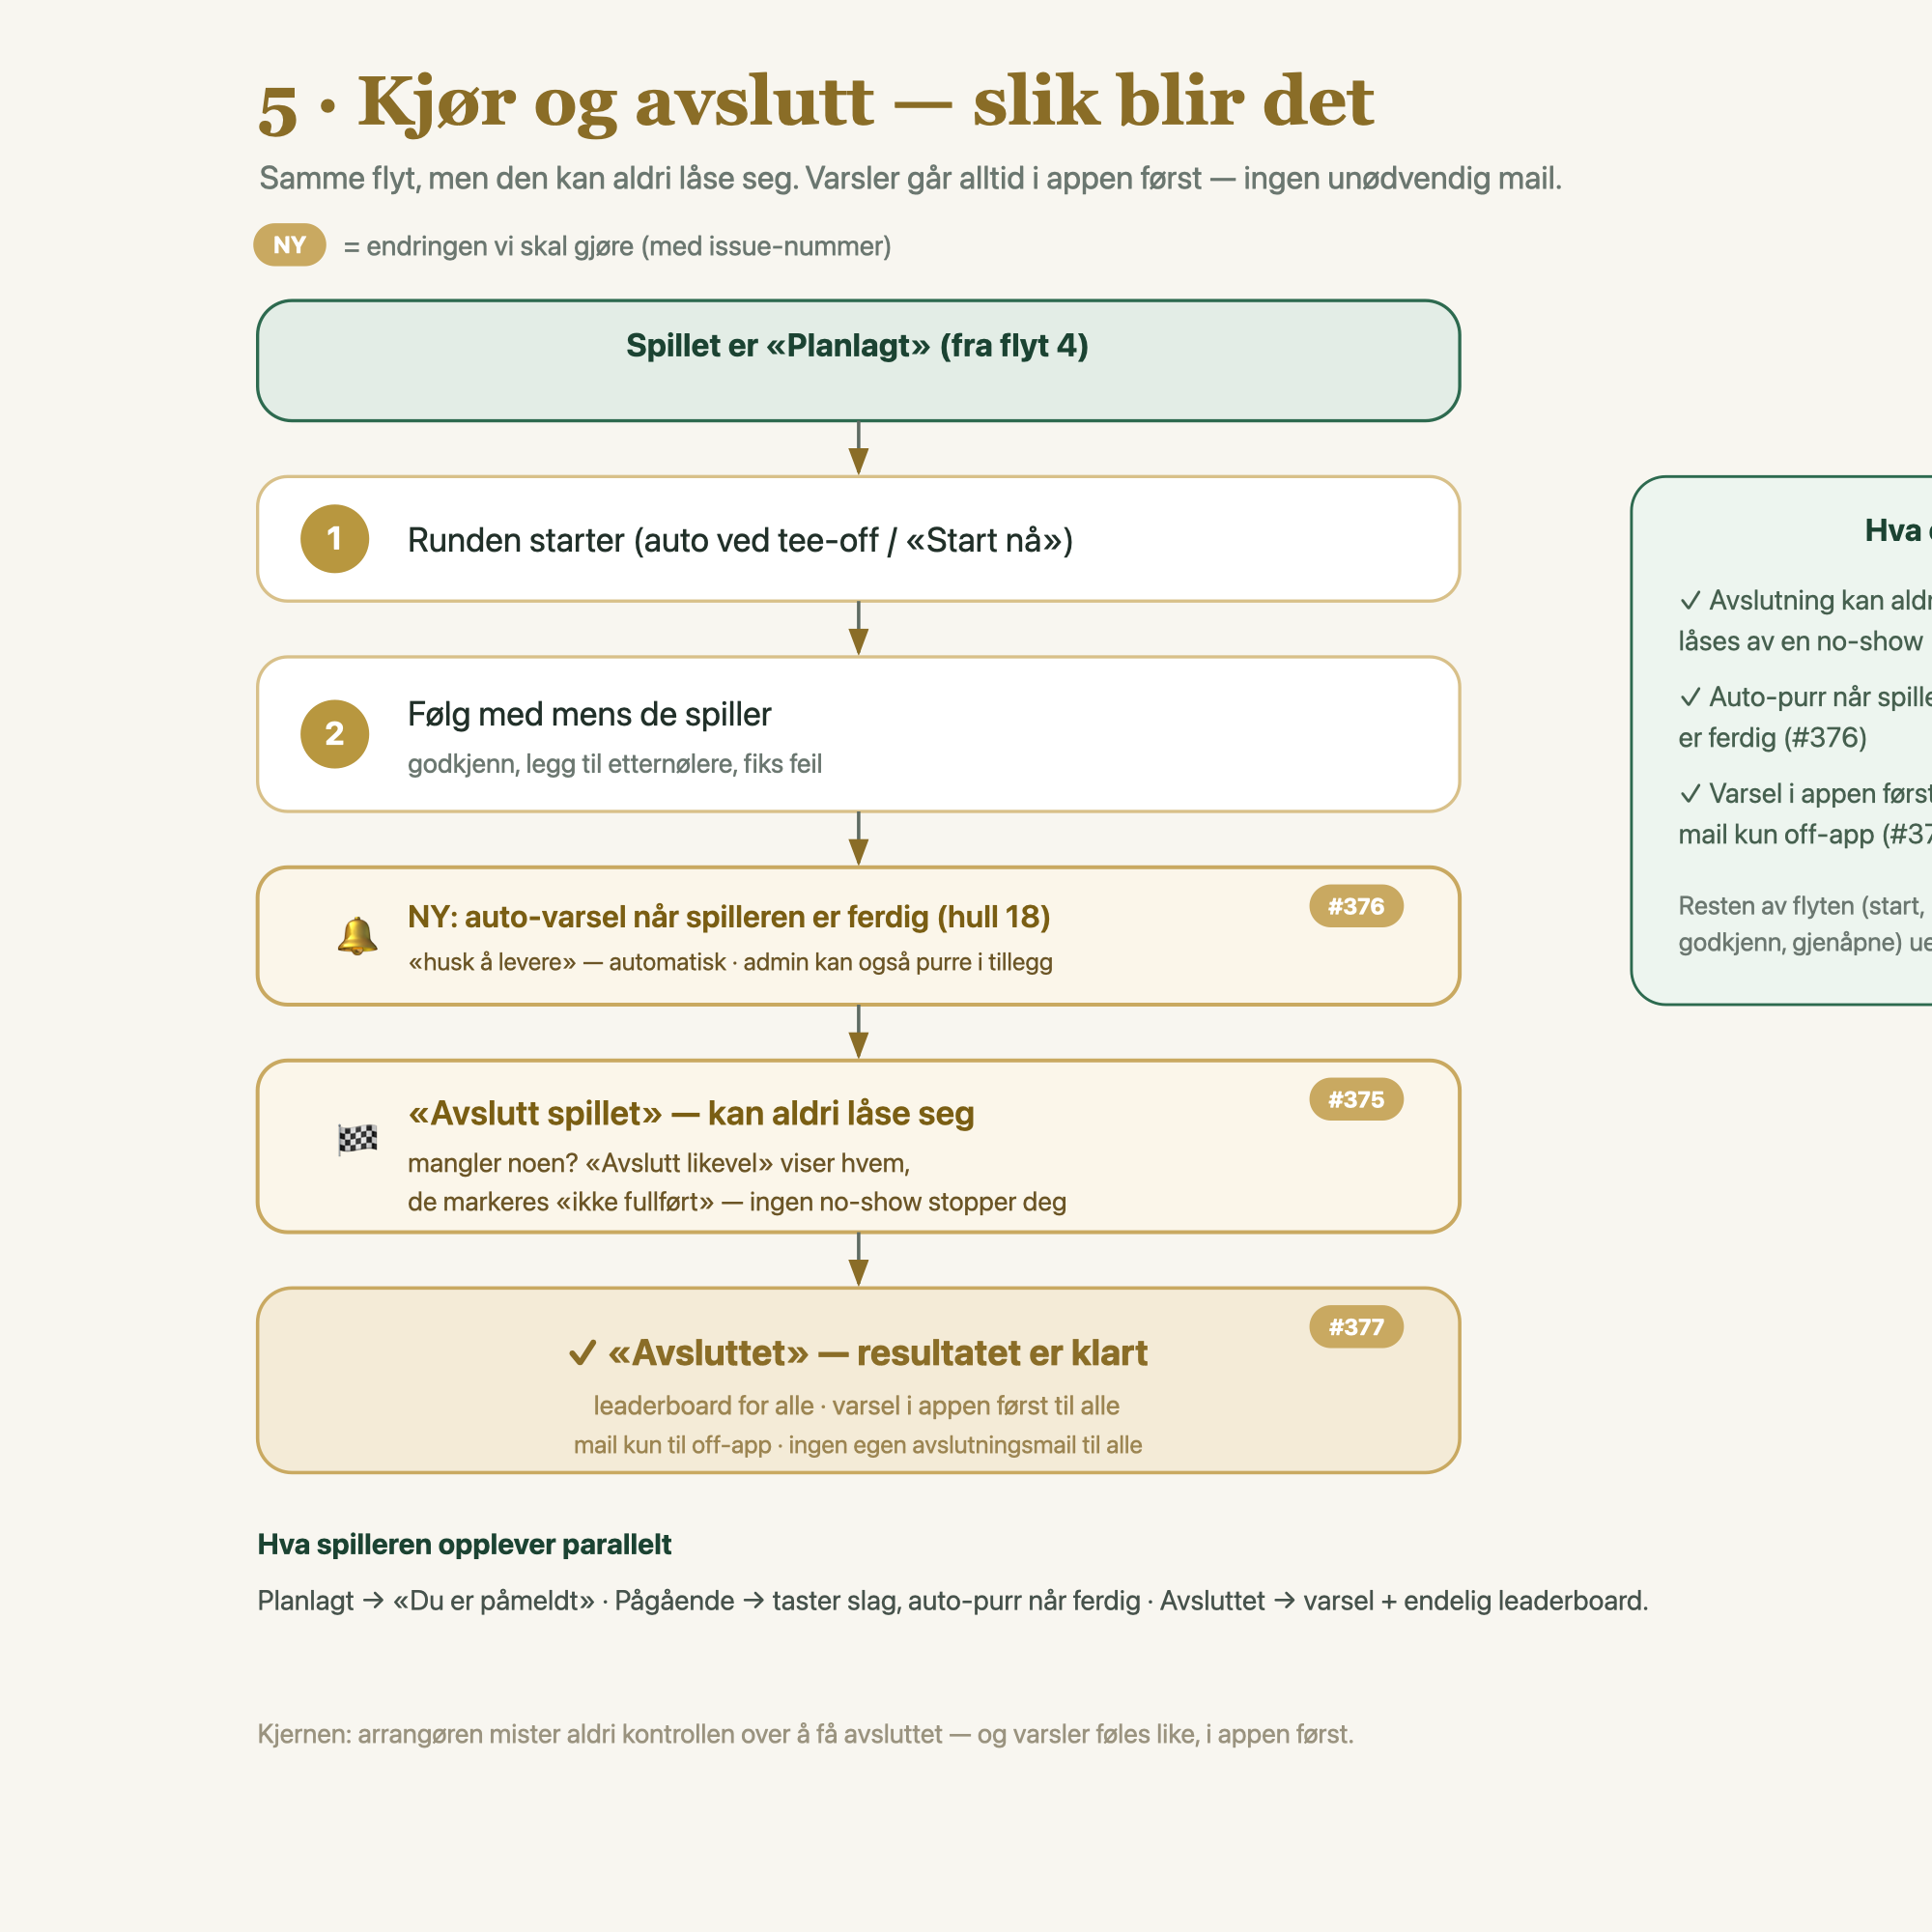
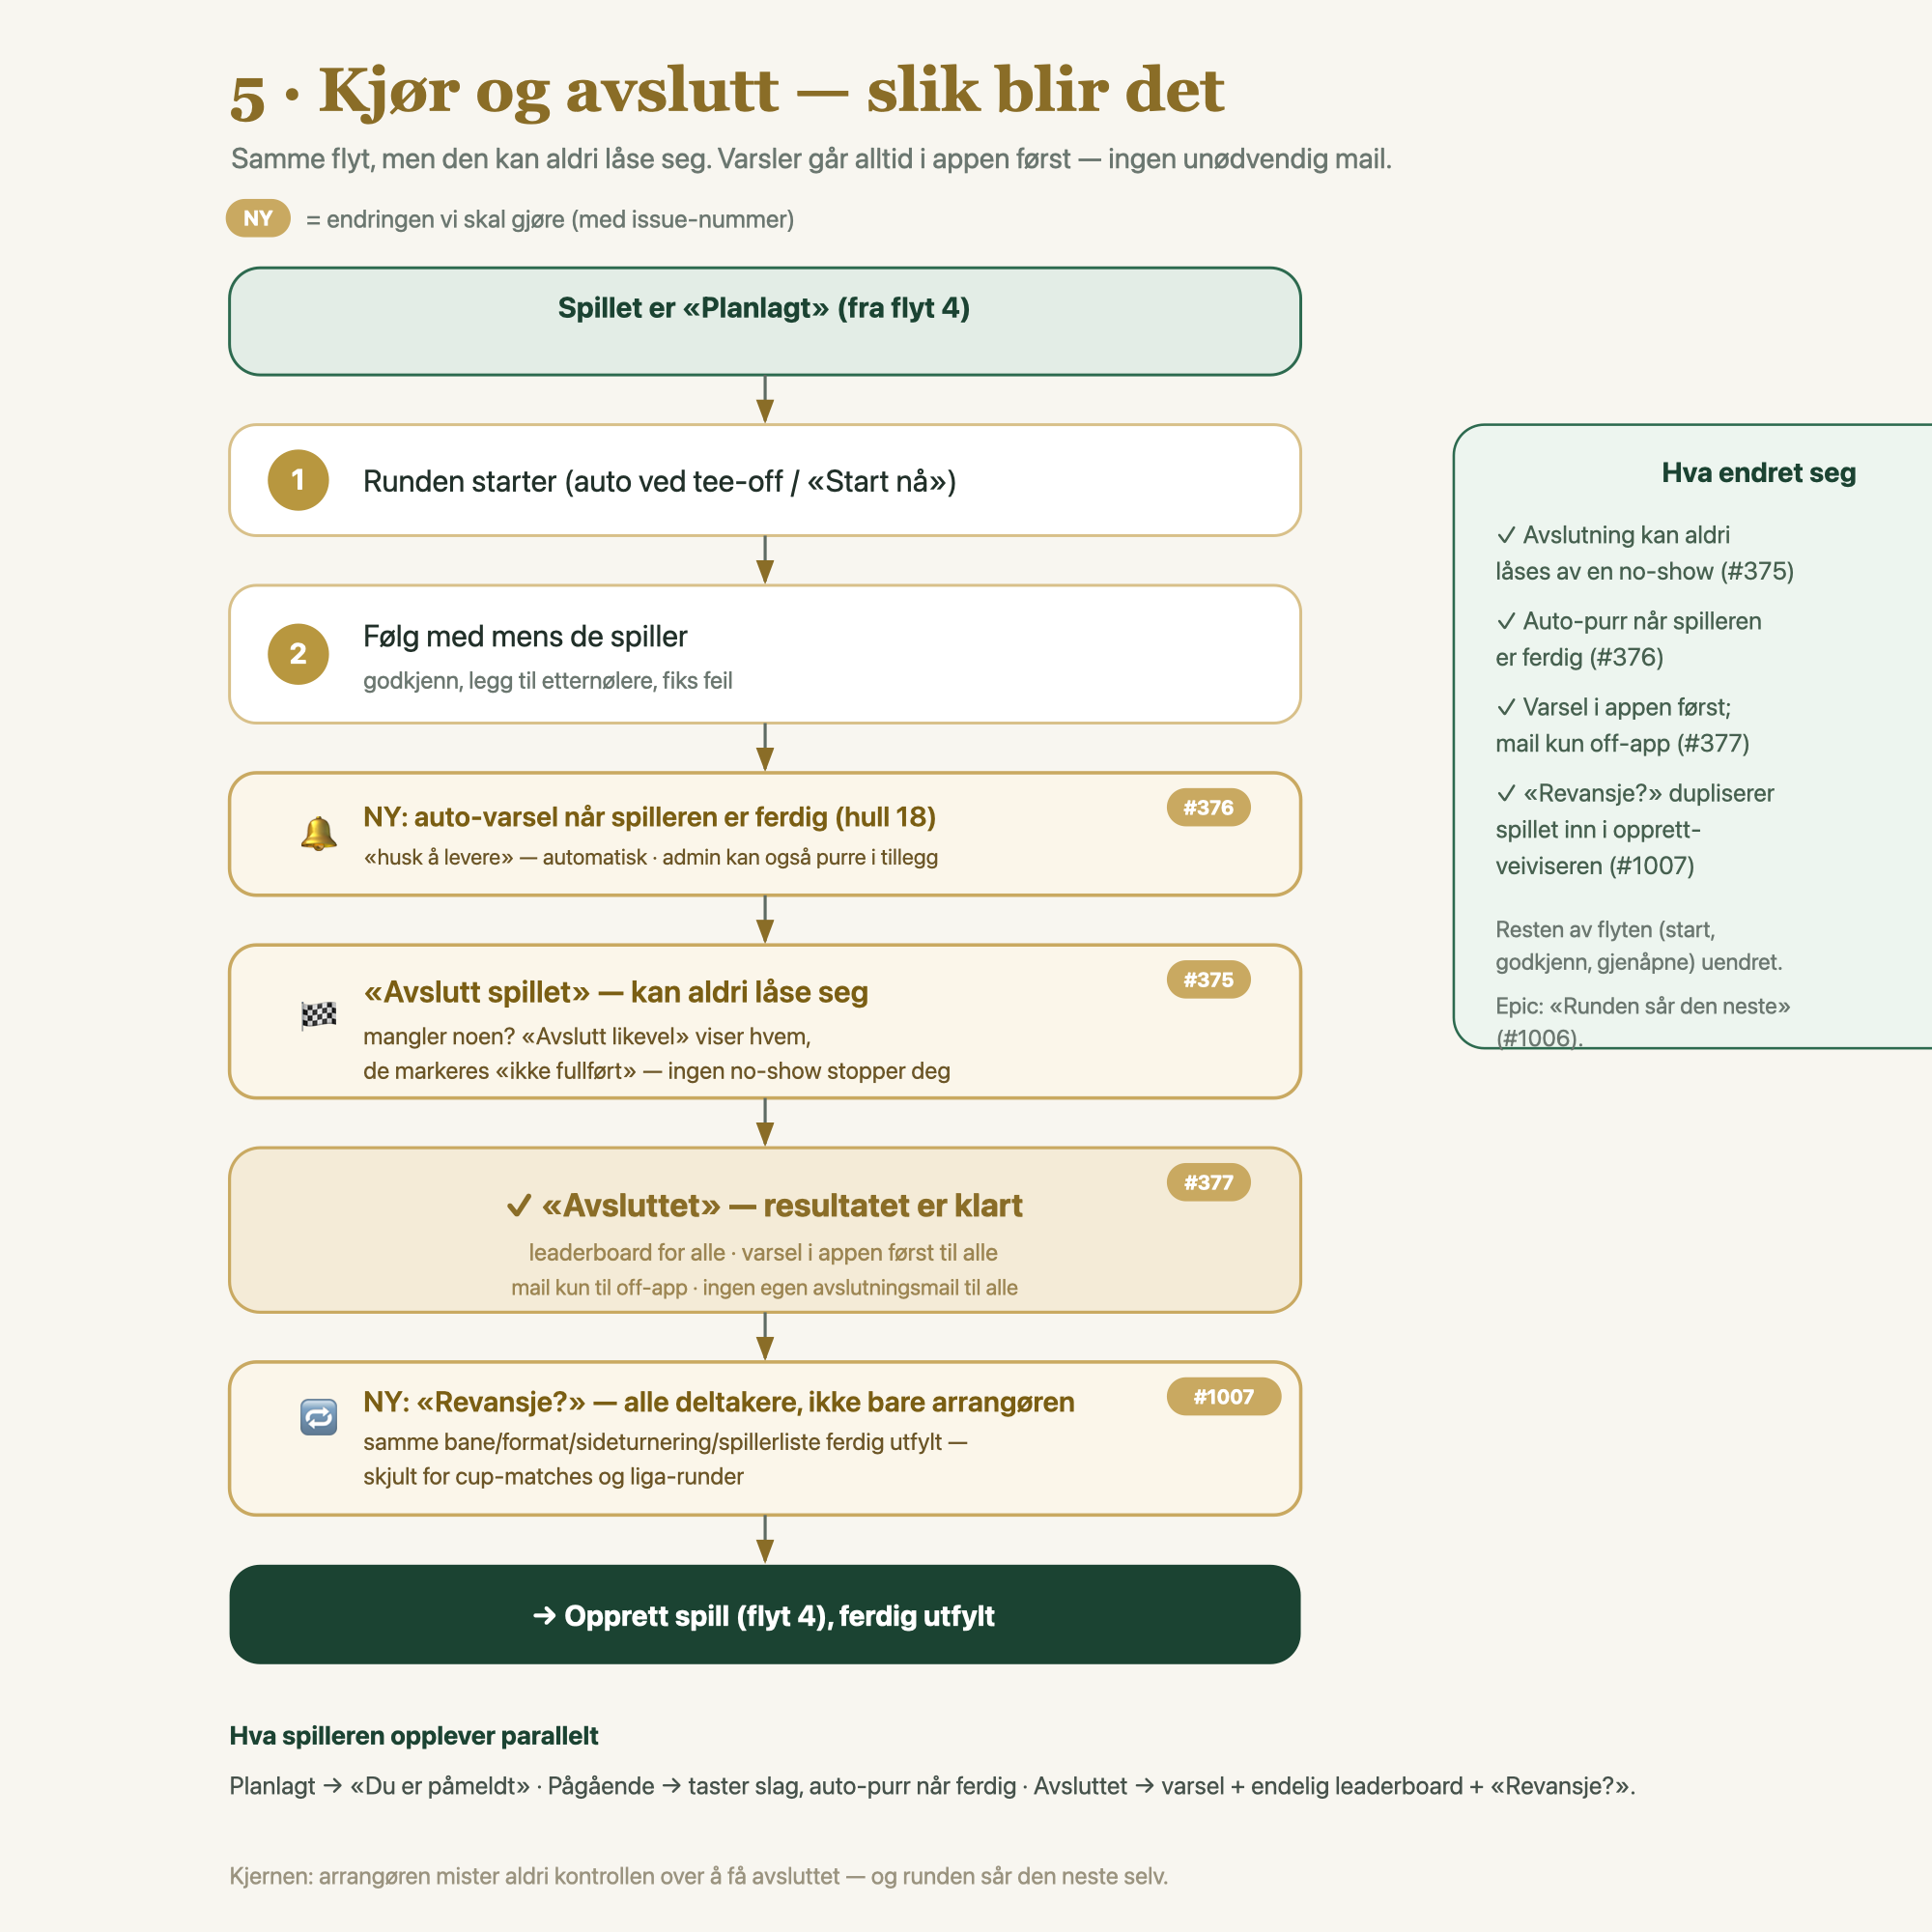
feat(games): revansje button on finished games with prefilled wizard
Refs #1007

Adds a «Revansje?» CTA to the finished-game branch of game-home, visible
to every participant (not just the creator/admin) — the growth loop is
an invited player becoming an arranger themselves. Gated on
!tournament_id && !league_round_id (extended game-${id} cache from the
previous commit) so cup matches and liga-rounds don't get a standalone
rematch button.

The button navigates to /opprett-spill?fra=<gameId>. That route:
  - resolves the source game via the cached getGameWithPlayers, enforces
    authz at the call-site (current user must be a participant) before
    building anything, and silently falls back to the ordinary empty
    wizard for any invalid/unauthorized/cup/liga source,
  - fetches the handful of EditGameRow fields not carried by the cache
    (hcp_allowance_pct, registration_*, let_friends_skip_gate) via a slim
    direct query, same doctrine as the existing courses()/tee_boxes()
    joins,
  - builds InitialValues via buildRevansjeInitialValues, derives
    initialIntent (group_id -> klubb; otherwise from which format-intent
    catalog the game_mode is visible in, preferring kompis),
  - renders a "Forhåndsutfylt fra <name>" banner, and
  - keys the GameWizard element on `fra` (or 'blank') so the
    key-remount-fella doesn't leak state between navigations
    (useGameFormState only reads initialValues once at mount).

No DB writes happen on click or during prefill — createGameInternal is
[…]

diff --git a/app/[locale]/opprett-spill/page.tsx b/app/[locale]/opprett-spill/page.tsx
@@ -9,12 +9,14 @@ import { Card } from '@/components/ui/Card';
 import { Banner } from '@/components/ui/Banner';
 import { Skeleton } from '@/components/ui/Skeleton';
 import { GameWizard } from '@/app/[locale]/admin/games/new/GameWizard';
+import type { InitialValues } from '@/app/[locale]/admin/games/new/GameForm';
 import {
   createGameDraft,
   createAndPublishGame,
 } from '@/app/[locale]/admin/games/new/actions';
 import { getNewGameFormData } from '@/lib/games/newGameFormData';
 import { getServerClient } from '@/lib/supabase/server';
+import { getAdminClient } from '@/lib/supabase/admin';
 import { getRoleContext } from '@/lib/admin/auth';
 import { parseIntent, type Intent } from '@/lib/wizard/intent';
 import {
@@ -25,6 +27,12 @@ import { getFormatGuideEntries } from '@/lib/formats/buildFormatGuide';
 import { getFriendPlayerOptions } from '@/lib/friends/getFriendPlayerOptions';
 import { getClubMemberPlayerOptions } from '@/lib/clubs/getClubMemberPlayerOptions';
 import { isClubAdminAnywhere } from '@/lib/clubs/isClubAdminAnywhere';
+import { getGameWithPlayers } from '@/lib/games/getGameWithPlayers';
+import {
+  buildRevansjeInitialValues,
+  type RevansjeGameRow,
+  type RevansjePlayerRow,
+} from '@/lib/games/buildRevansjeInitialValues';
 
 // Opprett-spill-ruten for ALLE innloggede brukere (#427 — tidligere bare
 // admin/trusted per #198). Gjenbruker GameWizard fra admin-flyten, men kjører
@@ -39,7 +47,118 @@ type SearchParams = Promise<{
   klubb?: string | string[];
   // #892: Klubbhuset kan dyplenke «… eller en cup» med ?intent=cup.
   intent?: string | string[];
+  // #1007: «Revansje?»-knappen på et avsluttet spill dyplenker hit med
+  // kilde-spillets id. Serverside-validert i loadRevansjeContext — en
+  // param som peker på en ugyldig kilde (ikke deltaker, ikke finished,
+  // cup/liga) ignoreres stille og gir en helt vanlig tom veiviser.
+  fra?: string | string[];
 }>;
+
+type RevansjeContext = {
+  initialValues: InitialValues;
+  initialIntent: Intent;
+  sourceName: string;
+};
+
+/**
+ * #1007 — laster prefill-context for «Revansje?»-knappen. Returnerer `null`
+ * (stille ignorert, vanlig tom veiviser) med mindre ALLE gates passerer:
+ * spillet finnes, brukeren er en av deltakerne, status er 'finished', og
+ * spillet er hverken en cup-match (`tournament_id`) eller en liga-runde
+ * (`league_round_id`). Ingenting bygges før authz-sjekken (ingen data-lekkasje
+ * for en gjettet id).
+ */
+async function loadRevansjeContext(
+  fraId: string,
+  currentUserId: string,
+): Promise<RevansjeContext | null> {
+  const gwp = await getGameWithPlayers(fraId);
+  if (!gwp) return null;
+
+  const isParticipant = gwp.players.some((p) => p.user_id === currentUserId);
+  if (!isParticipant) return null;
+
+  const { game } = gwp;
+  if (game.status !== 'finished') return null;
+  if (game.tournament_id !== null || game.league_round_id !== null) return null;
+
+  // Slim direct-fetch (à la loadCupContext/admin/games/new/page.tsx) for the
+  // few EditGameRow fields NOT carried by the game-${id} cache (hcp_allowance_pct,
+  // registration_*, let_friends_skip_gate). Admin client: authz is already
+  // settled above (participant + finished + standalone), same doctrine as the
+  // cached read.
+  const { data: extra, error } = await getAdminClient()
+    .from('games')
+    .select(
+      'hcp_allowance_pct, registration_mode, registration_type, let_friends_skip_gate',
+    )
+    .eq('id', fraId)
+    .single<{
+      hcp_allowance_pct: number;
+      registration_mode: 'invite_only' | 'manual_approval' | 'open';
+      registration_type: 'solo' | 'team' | 'both';
+      let_friends_skip_gate: boolean;
+    }>();
+  if (error || !extra) return null;
+
+  const gameRow: RevansjeGameRow = {
+    id: game.id,
+    name: game.name,
+    courses: null,
+    status: game.status,
+    course_id: game.course_id,
+    tee_box_id: game.tee_box_id,
+    scheduled_tee_off_at: game.scheduled_tee_off_at,
+    hcp_allowance_pct: extra.hcp_allowance_pct,
+    require_peer_approval: game.require_peer_approval,
+    score_visibility: game.score_visibility,
+    side_tournament_enabled: game.side_tournament_enabled,
+    side_ld_count: game.side_ld_count,
+    side_ctp_count: game.side_ctp_count,
+    side_disabled_categories: game.side_disabled_categories ?? [],
+    game_mode: game.game_mode,
+    mode_config: game.mode_config,
+    registration_mode: extra.registration_mode,
+    registration_type: extra.registration_type,
+    let_friends_skip_gate: extra.let_friends_skip_gate,
+  };
+  const playerRows: RevansjePlayerRow[] = gwp.players.map((p) => ({
+    user_id: p.user_id,
+    team_number: p.team_number,
+    flight_number: p.flight_number,
+    tee_gender: p.tee_gender,
+    withdrawn_at: p.withdrawn_at,
+  }));
+
+  const initialValues = buildRevansjeInitialValues(gameRow, playerRows);
+
+  // group_id → klubb-arrangement; ellers derivér fra hvilken intent-katalog
+  // formatet er synlig i (kompis foretrekkes — matcher #892-presedensen der
+  // en eksplisitt signal vinner over gjetting). Cup er aldri et resultat her
+  // siden game.tournament_id === null er allerede verifisert over.
+  let initialIntent: Intent;
+  if (game.group_id !== null) {
+    initialIntent = 'klubb';
+    initialValues.group_id = game.group_id;
+  } else {
+    // getFormatsForIntent er unstable_cache-wrappet (24t revalidate) —
+    // begge kallene er cache-hits i praksis, samme katalog GameFormBody
+    // uansett henter for wizard-en selv.
+    const [kompisFormats, klubbFormats] = await Promise.all([
+      getFormatsForIntent('kompis'),
+      getFormatsForIntent('klubb'),
+    ]);
+    if (kompisFormats.some((f) => f.slug === game.game_mode)) {
+      initialIntent = 'kompis';
+    } else if (klubbFormats.some((f) => f.slug === game.game_mode)) {
+      initialIntent = 'klubb';
+    } else {
+      initialIntent = 'solo';
+    }
+  }
+
+  return { initialValues, initialIntent, sourceName: game.name };
+}
 
 export default async function OpprettSpillPage({
   searchParams,
@@ -74,10 +193,26 @@ export default async function OpprettSpillPage({
 
   const errorMessage = buildErrorMessage(first(sp.error), first(sp.emails));
 
+  // #1007: «Revansje?» — kilde-spillets id fra game-home. Ugyldig/uautorisert
+  // param (ikke deltaker, ikke finished, cup/liga) gir `null` og faller
+  // stille tilbake til en helt vanlig tom veiviser (ingen feilmelding — det
+  // ville lekket informasjon om spillets eksistens til en ikke-deltaker).
+  const fraId = first(sp.fra);
+  const revansje = fraId
+    ? await loadRevansjeContext(fraId, currentUserId)
+    : null;
+  if (revansje) {
+    console.log('[opprett-spill] revansje-prefill', fraId);
+  }
+
   // #892: en eksplisitt ?intent= (f.eks. cup fra Klubbhusets «… eller en cup»)
-  // vinner; ellers er en ?klubb=-dyplenke per definisjon en klubb-arrangement-flyt.
+  // vinner; ellers en ?klubb=-dyplenke gir klubb-intent; revansje-derivert
+  // intent er svakest presedens (den er et forslag, ikke et eksplisitt valg)
+  // men vinner over "ingen signal i det hele tatt".
   const initialIntent: Intent | undefined =
-    parseIntent(first(sp.intent)) ?? (first(sp.klubb) ? 'klubb' : undefined);
+    parseIntent(first(sp.intent)) ??
+    (first(sp.klubb) ? 'klubb' : undefined) ??
+    revansje?.initialIntent;
 
   return (
     <AppShell>
@@ -98,6 +233,14 @@ export default async function OpprettSpillPage({
         </div>
       )}
 
+      {revansje && (
+        <div className="mt-4">
+          <Banner tone="info" testId="revansje-banner">
+            {t('createDoor.revansjeBanner', { name: revansje.sourceName })}
+          </Banner>
+        </div>
+      )}
+
       <Suspense fallback={null}>
         <PlayerShortageBanner />
       </Suspense>
@@ -108,6 +251,8 @@ export default async function OpprettSpillPage({
             <GameFormBody
               defaultGroupId={first(sp.klubb)}
               initialIntent={initialIntent}
+              initialValues={revansje?.initialValues}
+              wizardKey={fraId ?? 'blank'}
               userId={currentUserId}
               isAdmin={isAdmin}
             />
@@ -151,11 +296,18 @@ async function PlayerShortageBanner() {
 async function GameFormBody({
   defaultGroupId,
   initialIntent,
+  initialValues,
+  wizardKey,
   userId,
   isAdmin,
 }: {
   defaultGroupId: string | undefined;
   initialIntent: Intent | undefined;
+  // #1007: prefill fra «Revansje?». Undefined for the ordinary empty-wizard path.
+  initialValues: InitialValues | undefined;
+  // #1007: remounts GameWizard when the `?fra=` source changes — useGameFormState
+  // only reads initialValues once at mount (key-remount-fella, kjent memory-trap).
+  wizardKey: string;
   userId: string;
   isAdmin: boolean;
 }) {
@@ -202,6 +354,7 @@ async function GameFormBody({
   const friendPlayerIds = friendPlayers.map((f) => f.id);
   return (
     <GameWizard
+      key={wizardKey}
       courses={courses}
       players={mergedPlayers}
       mode={{
@@ -209,6 +362,7 @@ async function GameFormBody({
         createDraftAction: createGameDraft,
         createAndPublishAction: createAndPublishGame,
       }}
+      initialValues={initialValues}
       formatsByIntent={{
         kompis: kompisFormats,
         klubb: klubbFormats,
@@ -217,8 +371,9 @@ async function GameFormBody({
       cupEligibleFormats={cupEligibleFormats}
       clubs={clubs}
       defaultGroupId={defaultGroupId}
-      // #892: eksplisitt intent (cup) vinner; en ?klubb=-dyplenke gir klubb-intent
-      // så ClubPicker (kun for klubb-intent) viser den forhåndsvalgte klubben (#50-fix).
+      // #892/#1007: eksplisitt intent (cup) vinner; en ?klubb=-dyplenke eller
+      // revansje-derivert klubb-tilknytning gir klubb-intent så ClubPicker
+      // (kun for klubb-intent) viser den forhåndsvalgte klubben (#50-fix).
       initialIntent={initialIntent}
       friendPlayerIds={friendPlayerIds}
       clubMemberIdsByClub={clubMembers.memberIdsByClub}

diff --git a/app/[locale]/games/[id]/(home)/page.tsx b/app/[locale]/games/[id]/(home)/page.tsx
@@ -91,6 +91,14 @@ type GameRow = {
   id: string;
   name: string;
   status: GameStatus;
+  /**
+   * #1007: gates the «Revansje?» CTA on the finished branch — cup matches
+   * and liga-rounds don't get a standalone rematch button (the cup/liga
+   * itself owns the rematch). Immutable after creation.
+   */
+  tournament_id: string | null;
+  /** #1007: same gating rationale as `tournament_id` above. */
+  league_round_id: string | null;
   course_id: string;
   tee_box_id: string;
   scheduled_tee_off_at: string | null;
@@ -142,7 +150,7 @@ type GameRow = {
 };
 
 const GAME_SELECT =
-  'id, name, status, course_id, tee_box_id, scheduled_tee_off_at, require_peer_approval, game_mode, courses(name), tee_boxes(name, length_meters, slope_mens, course_rating_mens, par_total_mens, slope_ladies, course_rating_ladies, par_total_ladies, slope_juniors, course_rating_juniors, par_total_juniors)';
+  'id, name, status, tournament_id, league_round_id, course_id, tee_box_id, scheduled_tee_off_at, require_peer_approval, game_mode, courses(name), tee_boxes(name, length_meters, slope_mens, course_rating_mens, par_total_mens, slope_ladies, course_rating_ladies, par_total_ladies, slope_juniors, course_rating_juniors, par_total_juniors)';
 
 /** Locale-aware thousands-separator. 6124 → "6 124" (no) / "6,124" (en). */
 function formatLengthMeters(n: number, locale: AppLocale): string {
@@ -936,6 +944,24 @@ export default async function GameHomePage({
           <div className="rounded-2xl border border-border px-4 py-3 text-sm text-muted text-center">
             {t('gameNotStarted')}
           </div>
+        )}
+
+        {/* #1007: «Revansje?» — dupliserer dette spillet inn i opprett-
+            veiviseren, ferdig utfylt. Synlig for ALLE deltakere (ikke bare
+            arrangøren) — den viktigste veksthendelsen appen har er at en
+            invitert spiller blir arrangør selv. Skjult for cup-matches og
+            liga-runder (`tournament_id`/`league_round_id`) — de eies av
+            cupen/ligaen sin egen rematch-mekanikk, ikke en frittstående
+            knapp her. Rent navigasjons-lenke; ingenting skrives til DB. */}
+        {isFinished && !game.tournament_id && !game.league_round_id && (
+          <LinkButton
+            href={`/opprett-spill?fra=${id}`}
+            variant="secondary"
+            full
+            data-testid="revansje-button"
+          >
+            {t('revansjeButton')}
+          </LinkButton>
         )}
 
         {game.status === 'finished' && (

diff --git a/CHANGELOG.md b/CHANGELOG.md
@@ -15,6 +15,14 @@ Alle bruker-synlige endringer i Tørny. Versjonering følger [Semantic Versionin
 ## Funksjoner
 
 <details>
+<summary><strong>1.163 · Revansje?</strong></summary>
+
+[#1007](https://github.com/jdlarssen/golf-app/issues/1007) — Avsluttet du en runde, får du nå en «Revansje?»-knapp som åpner opprett-veiviseren ferdig utfylt med samme bane, format, sideturnering og spillerliste. Alle deltakere ser knappen, ikke bare arrangøren — bli med i en runde, og du kan sette opp den neste selv.
+
+↳ /opprett-spill · «Revansje?»
+</details>
+
+<details>
 <summary><strong>1.161 · Rett en publisert lansering</strong></summary>
 
 [#993](https://github.com/jdlarssen/golf-app/issues/993) — Har en lansering gått ut med en feil i tittel, tekst eller lenke, kan du nå rette den fra «Lanseringer» i Sekretariatet. Rettingen følger med til varslene som alt er sendt ut — uten å dukke opp på nytt hos dem som har lukket det.